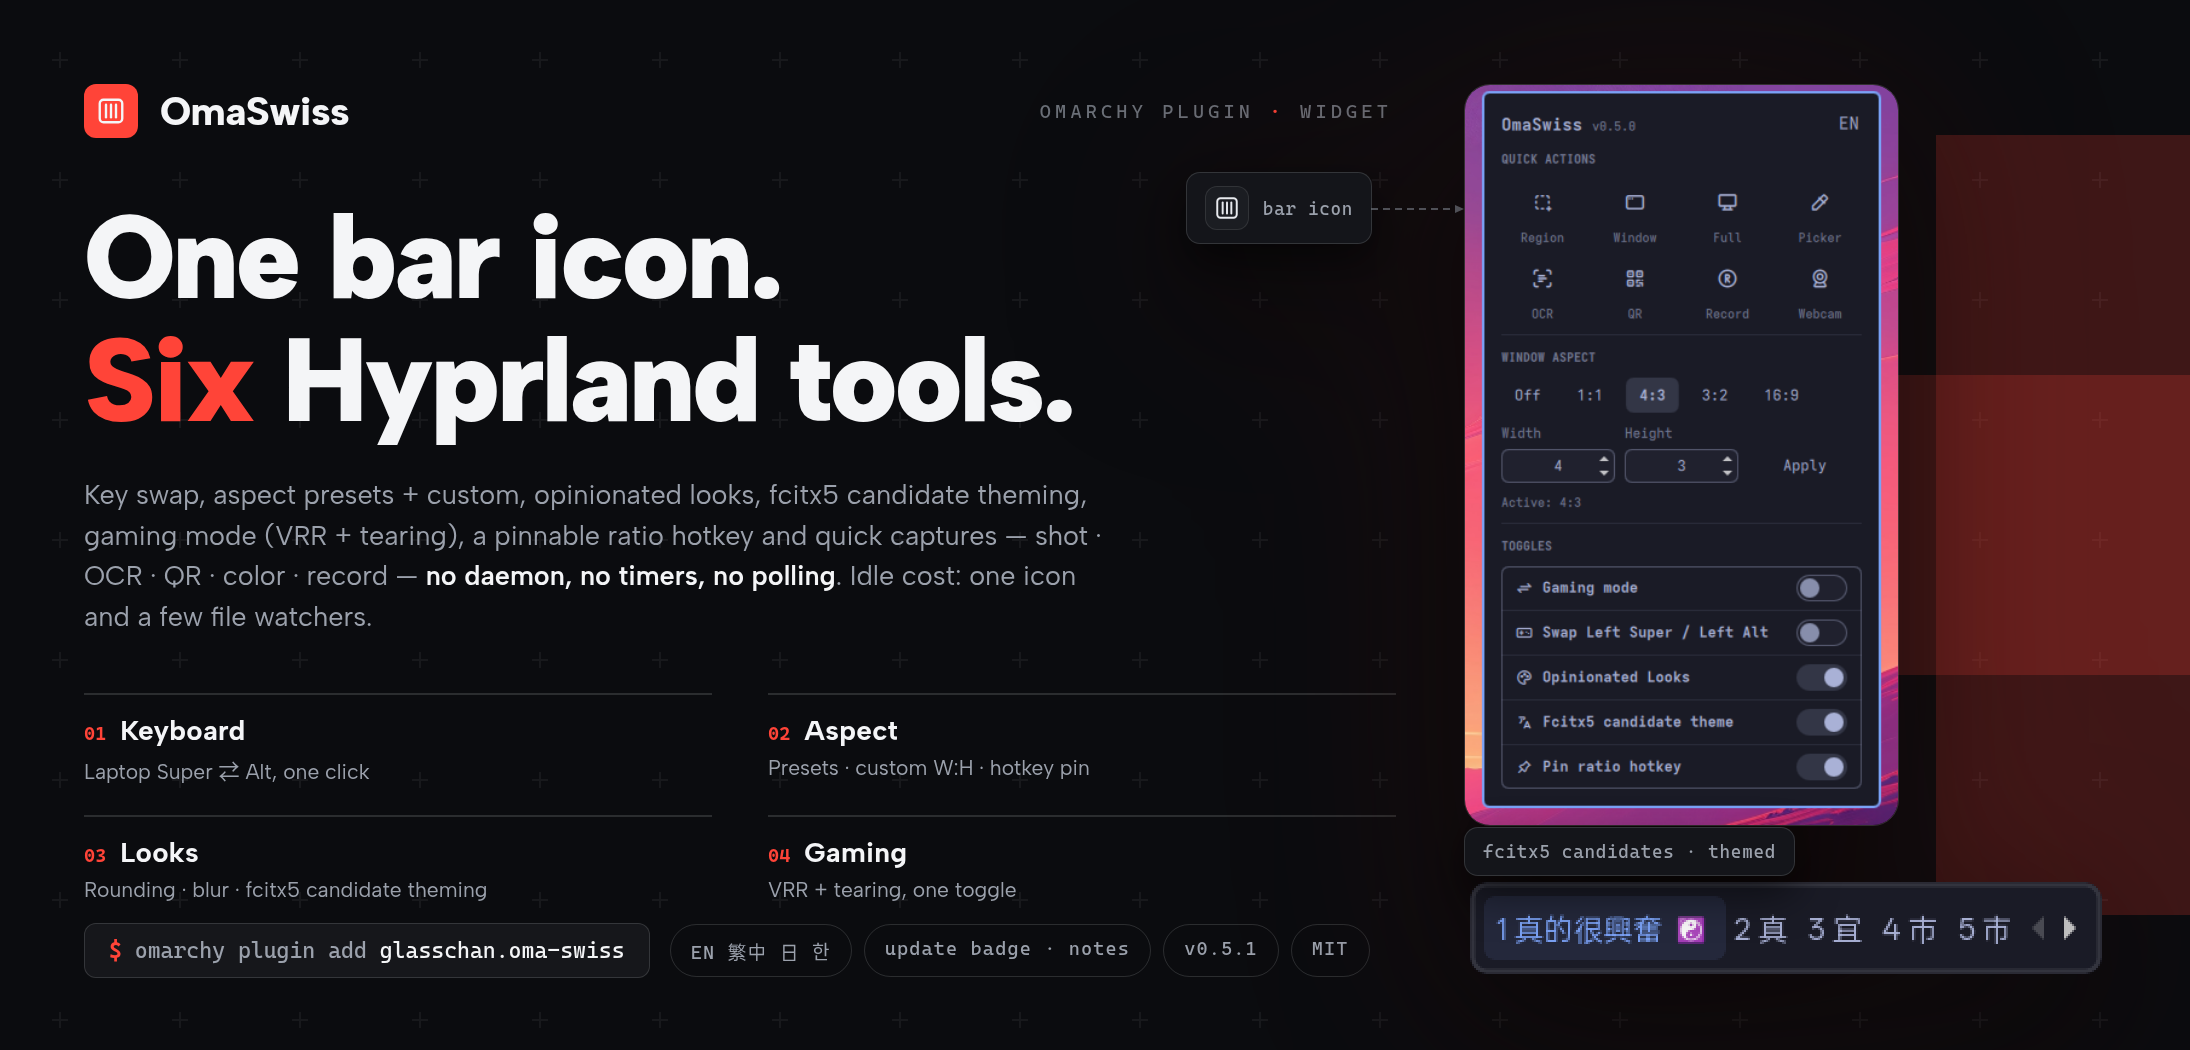
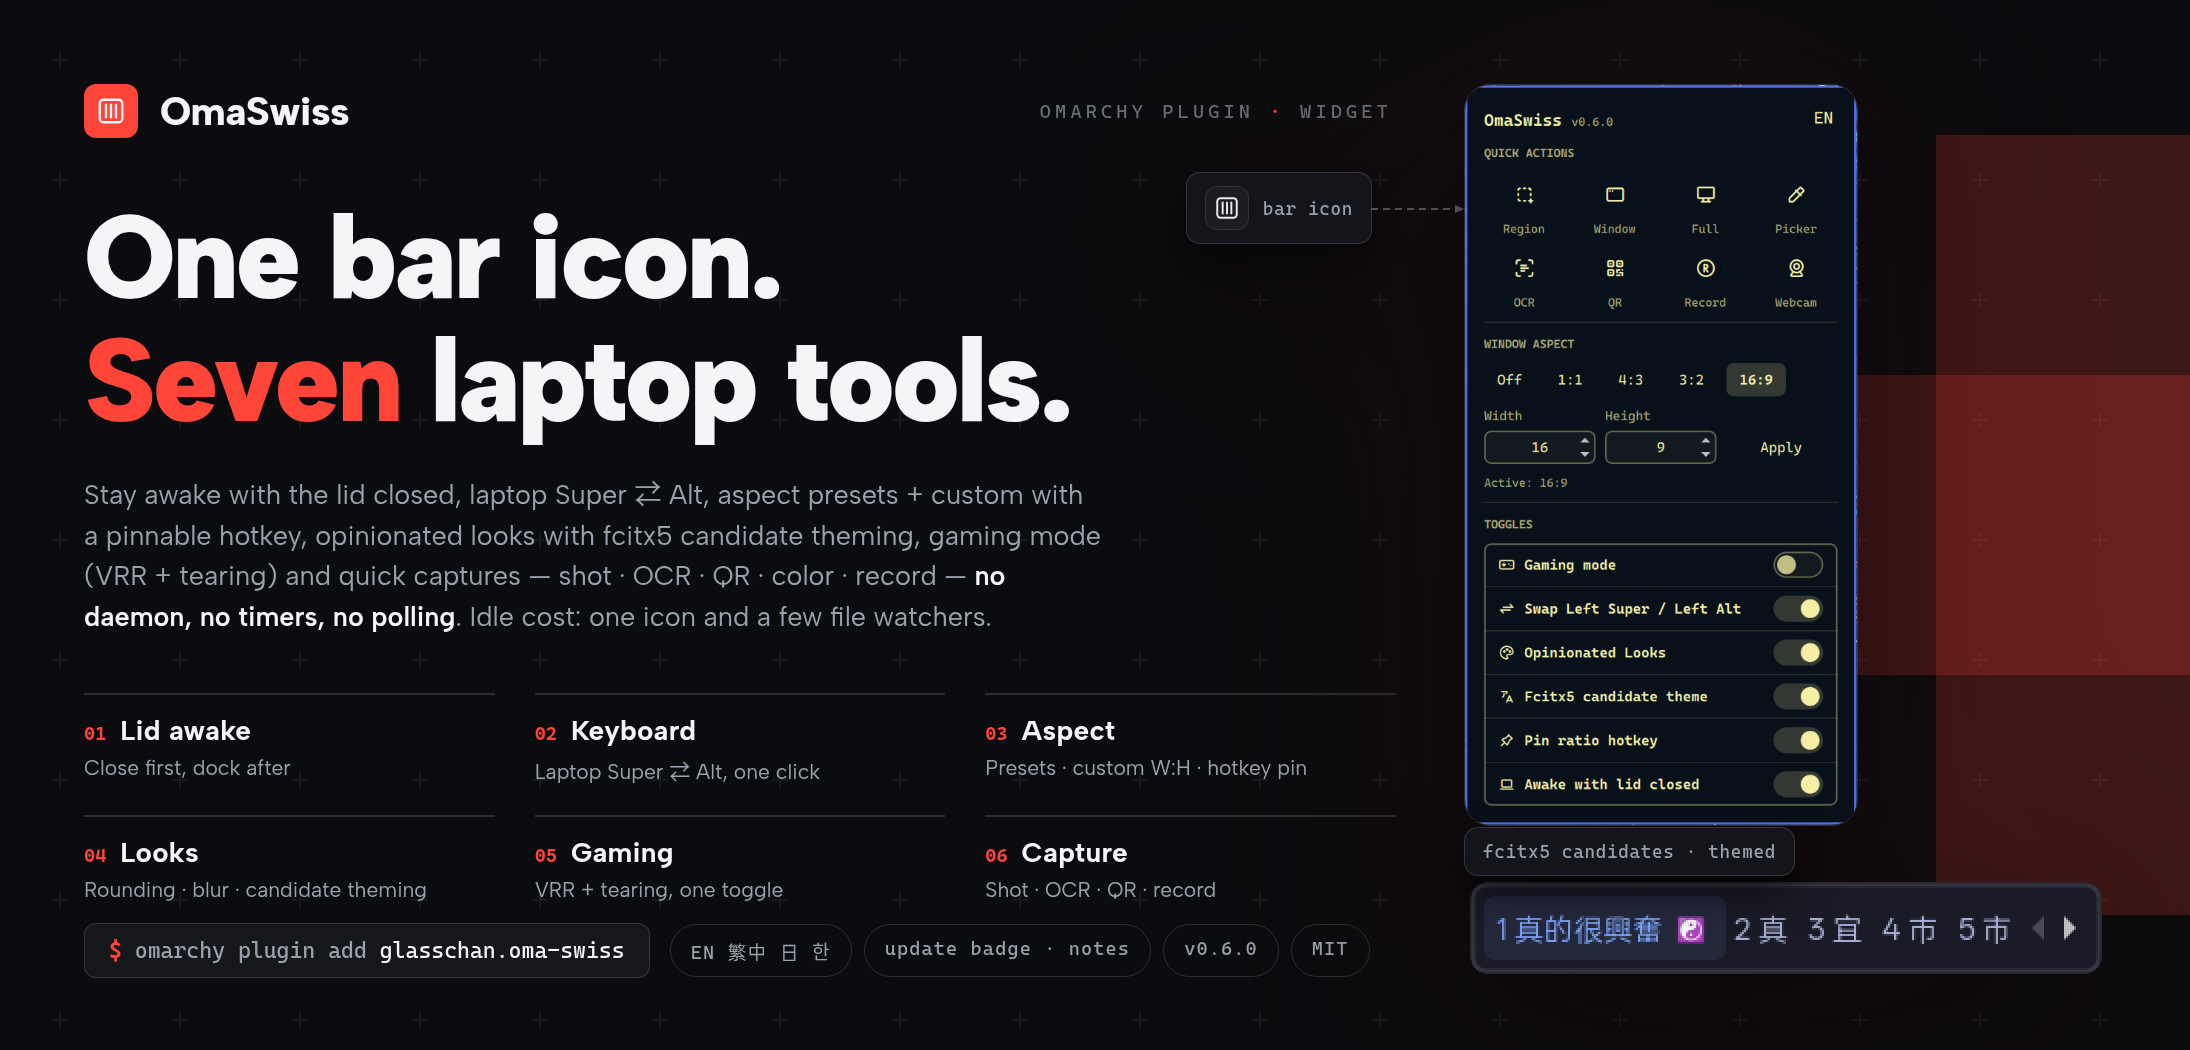
docs(cover): 0.6.0 artwork with the lid tool and the six-row panel
Headline reads Seven laptop tools; the feature grid becomes three columns of
six cards with Lid awake first; the version chip and the panel capture carry
0.6.0. panel.png is a fresh EN capture (529x998) whose rounded ring and
corners the cover's own radius clips. Rendering used a scoped fontconfig so
Albert Sans is not rewritten: the wordmark is pixel-identical to the previous
cover.

diff --git a/design/cover.html b/design/cover.html
@@ -92,8 +92,8 @@
 
   .features {
     margin-top: 56px;
-    display: grid; grid-template-columns: 1fr 1fr;
-    column-gap: 56px; row-gap: 30px;
+    display: grid; grid-template-columns: 1fr 1fr 1fr;
+    column-gap: 40px; row-gap: 30px;
   }
   .feature { border-top: 2px solid var(--hairline); padding-top: 18px; }
   .feature .num {
@@ -233,33 +233,42 @@
 
       <div class="headline">
         One bar icon.<br>
-        <span class="red">Six</span> Hyprland tools.
+        <span class="red">Seven</span> laptop tools.
       </div>
 
       <div class="sub">
-        Key swap, aspect presets + custom, opinionated looks, fcitx5
-        candidate theming, gaming mode (VRR + tearing), a pinnable ratio
-        hotkey and quick captures — shot · OCR · QR · color · record —
+        Stay awake with the lid closed, laptop Super ⇄ Alt, aspect
+        presets + custom with a pinnable hotkey, opinionated looks with
+        fcitx5 candidate theming, gaming mode (VRR + tearing) and quick
+        captures — shot · OCR · QR · color · record —
         <b>no daemon, no timers, no polling</b>. Idle cost: one icon and
         a few file watchers.
       </div>
 
       <div class="features">
         <div class="feature">
-          <span class="num">01</span><span class="name">Keyboard</span>
+          <span class="num">01</span><span class="name">Lid awake</span>
+          <div class="desc">Close first, dock after</div>
+        </div>
+        <div class="feature">
+          <span class="num">02</span><span class="name">Keyboard</span>
           <div class="desc">Laptop Super ⇄ Alt, one click</div>
         </div>
         <div class="feature">
-          <span class="num">02</span><span class="name">Aspect</span>
+          <span class="num">03</span><span class="name">Aspect</span>
           <div class="desc">Presets · custom W:H · hotkey pin</div>
         </div>
         <div class="feature">
-          <span class="num">03</span><span class="name">Looks</span>
-          <div class="desc">Rounding · blur · fcitx5 candidate theming</div>
+          <span class="num">04</span><span class="name">Looks</span>
+          <div class="desc">Rounding · blur · candidate theming</div>
         </div>
         <div class="feature">
-          <span class="num">04</span><span class="name">Gaming</span>
+          <span class="num">05</span><span class="name">Gaming</span>
           <div class="desc">VRR + tearing, one toggle</div>
+        </div>
+        <div class="feature">
+          <span class="num">06</span><span class="name">Capture</span>
+          <div class="desc">Shot · OCR · QR · record</div>
         </div>
       </div>
 
@@ -268,7 +277,7 @@
         <div class="chips">
           <div class="chip">EN 繁中 日 한</div>
           <div class="chip">update badge · notes</div>
-          <div class="chip">v0.5.1</div>
+          <div class="chip">v0.6.0</div>
           <div class="chip">MIT</div>
         </div>
       </div>
